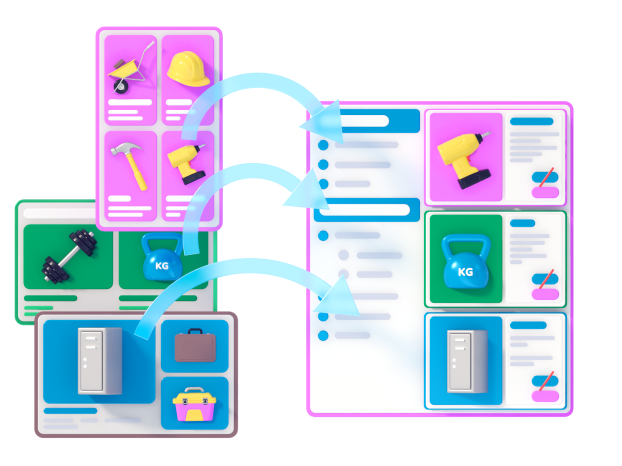
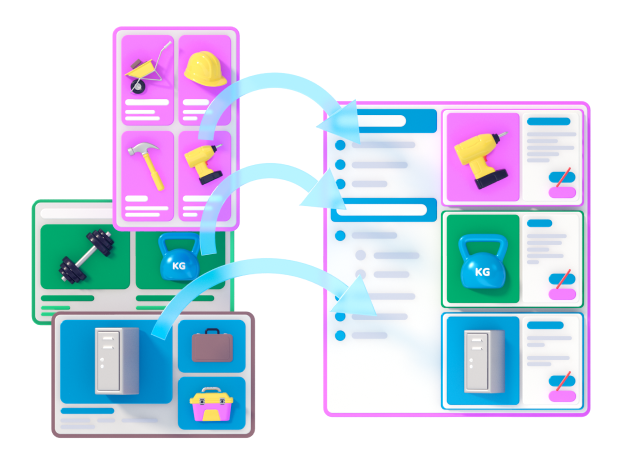
benefits responsiveness

Changed region(s): [[0.0, 0.0601, 0.9775, 0.9614], [0.6109, 0.4807, 0.6415, 0.5107]]

diff --git a/development/styles/_benefits.css b/development/styles/_benefits.css
@@ -59,8 +59,8 @@
         }
 
         @keyframes benefits {
-            from { opacity: 0; }
-            to { opacity: 1; }
+            from { opacity: 0; transform: translateY(-10px); }
+              to { opacity: 1; transform: translateY(0); }
         }
 
         .benefits__item--current {
@@ -69,8 +69,10 @@
         }
             .benefits__screen {
                 border-radius: 20px;
+                min-height: 671px;
                 display: flex;
                 align-items: center;
+                justify-content: space-between;
                 gap: 50px;
                 padding-top: 77px;
                 padding-bottom: 72px;
@@ -84,7 +86,7 @@
             }
 
             .benefits__screen--alternate {
-                background-image: url("../vectors/benefits-background-alternate.svg");
+                background-image: url("../vectors/benefits-background-alternate-desktop.svg");
                 background-size: 1360px 1288px;
                 background-repeat: no-repeat;
                 background-position: center top;
@@ -108,12 +110,156 @@
 
     }
 
-        @media (min-width: 1400px) {
+        /*@media (min-width: 1400px) {*/
             .benefits__item--for-distributor-manufacturer .benefits__screenshot {
-                margin-left: 86px;
+                margin-right: -44px;
             }
-        }
+        /*}*/
 
     .benefits__item--for-dealer-and-seller {
 
     }
+        .benefits__item--for-dealer-and-seller .benefits__screenshot {
+            margin-right: 14px;
+        }
+
+
+
+@media (max-width: 599px) {
+
+    .benefits {
+        padding-top: 94px;
+        padding-bottom: 58px;
+    }
+        .benefits__navigation {
+            display: block;
+            /*align-items: flex-start;*/
+            /*gap: 24px;*/
+        }
+            .benefits__heading {
+                /*margin-top: 0;*/
+                /*margin-bottom: 0;*/
+            }
+
+            .benefits__tabs {
+                display: block;
+                margin-top: 10px;
+                /*align-items: flex-start;*/
+                /*gap: 24px;*/
+            }
+                .benefits__tag {
+                    margin-top: 12px;
+                    /*border: none;*/
+                    padding: 12px 24px;
+                    /*background-color: #E7E7E7;*/
+                    /*border-radius: 38px;*/
+                    /*font-family: var(--font-headings);*/
+                    /*font-weight: bold;*/
+                    font-size: 20px;
+                    line-height: 28px;
+                    /*cursor: pointer;*/
+                    /*white-space: nowrap;*/
+                    /*transition: background-color var(--transition-hover),*/
+                    /*            color var(--transition-hover);*/
+                    /*user-select: none;*/
+                }
+
+                @media (max-width: 374px) {
+                    .benefits__tag {
+                        padding: 10px 22px;
+                        font-size: 17px;
+                        line-height: 26px;
+                    }
+                }
+
+                .benefits__tag:first-child {
+                    margin-top: 0;
+                }
+
+
+
+        .benefits__body {
+            margin-top: 17px;
+        }
+            .benefits__item {
+                /*display: none;*/
+            }
+
+            @keyframes benefits {
+                /*from { opacity: 0; }*/
+                /*to { opacity: 1; }*/
+            }
+
+            .benefits__item--current {
+                /*display: block;*/
+                /*animation: benefits 0.3s ease;*/
+            }
+                .benefits__screen {
+                    /*border-radius: 20px;*/
+                    display: block;
+                    /*align-items: center;*/
+                    /*gap: 50px;*/
+                    /*padding-top: 77px;*/
+                    /*padding-bottom: 72px;*/
+                    padding: 32px 24px 0;
+                    /*overflow: hidden;*/
+                }
+
+                .benefits__screen--aspect {
+                    /*background-color: var(--background-aspect);*/
+                    /*color: #FFFFFF;*/
+                }
+
+                .benefits__screen--alternate {
+                    background-image: url("../vectors/benefits-background-alternate-smartphone.svg");
+                    background-size: 600px 1200px;
+                    /*background-repeat: no-repeat;*/
+                    /*background-position: center top;*/
+                }
+                    .benefits__summary {
+                        width: auto;
+                        /*flex-shrink: 0;*/
+                        /*font-weight: 500;*/
+                    }
+                        .benefits__features {
+                            /*margin-top: 0;*/
+                            /*margin-bottom: 0;*/
+                        }
+                            .benefits__features .list__item {
+                                padding-left: 0;
+                            }
+                                .benefits__features .list__item::before {
+                                    display: none;
+                                }
+
+                    .benefits__screenshot {
+
+                    }
+
+
+
+
+        .benefits__item--for-distributor-manufacturer {
+
+        }
+            .benefits__item--for-distributor-manufacturer .benefits__screenshot {
+                margin-top: 47px;
+                margin-bottom: -20px;
+                margin-left: 5px !important;
+                margin-right: 5px !important;
+                width: calc(100% - 2 * 5px);
+                height: auto;
+            }
+
+        .benefits__item--for-dealer-and-seller {
+
+        }
+            .benefits__item--for-dealer-and-seller .benefits__screenshot {
+                margin-top: 32px;
+                margin-left: 10px !important;
+                margin-right: 10px !important;
+                margin-bottom: -54px;
+                width: calc(100% - 2 * 10px);
+                height: auto;
+            }
+}

diff --git a/development/styles/_root.css b/development/styles/_root.css
@@ -16,15 +16,21 @@
 
 @media (max-width: 599px) {
     :root {
-        --container-padding: 20px;
+        --container-padding: 30px;
         --base-font-size: 16px;
         --base-line-height: 23px;
     }
 }
 
+@media (max-width: 390px) {
+    :root {
+        --container-padding: 20px;
+    }
+}
+
 @media (max-width: 359px) {
     :root {
-        --container-padding: 16px;
+        --container-padding: 15px;
     }
 }
 
